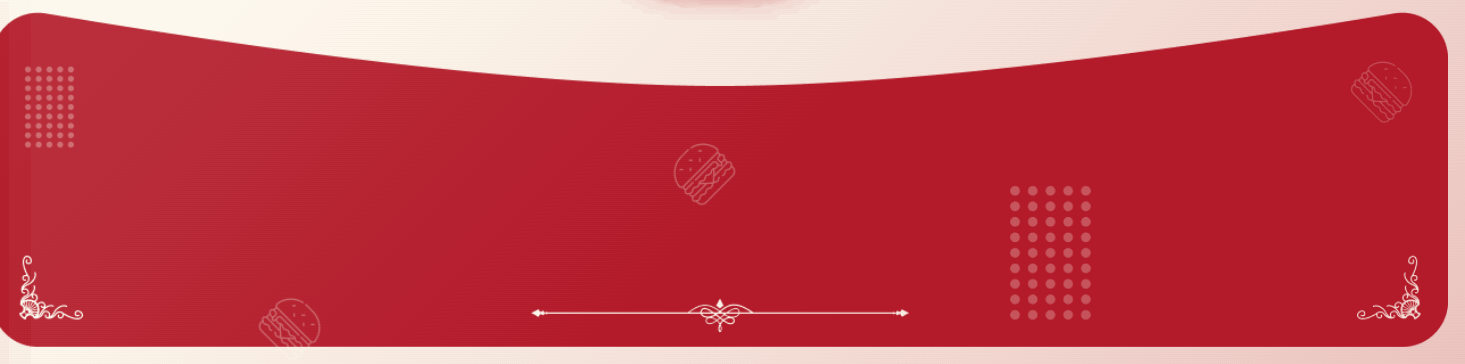
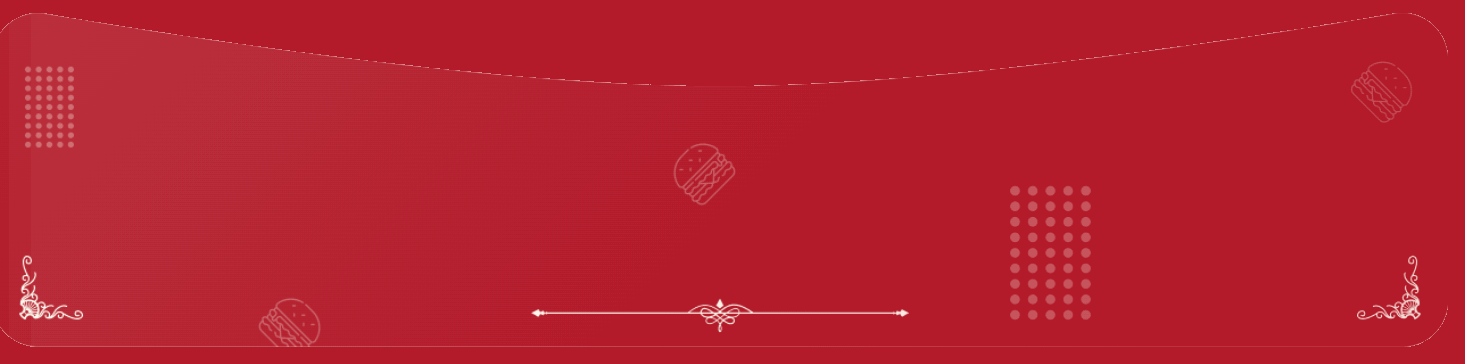
اصلاح استایل و چیدمان بخش محصولات و حذف پسزمینه کرم

Changed region(s): [[0.0, 0.0, 1.0, 1.0]]

diff --git a/src/styles/products.css b/src/styles/products.css
@@ -15,12 +15,22 @@
 
 .specials-band {
   position: relative;
-  margin: 10px -6px 0;
-  padding: 60px 22px 26px;
-  border-radius: 30px;
-  background-image: url('/assets/featured-bg.png');
-  background-repeat: no-repeat;
-  background-size: 100% 100%;
+  max-width: 90%;
+  margin: 14px auto 0;
+  padding: 30px 20px 22px;
+  border-radius: 28px;
+  overflow: hidden;
+  background: #b31b2a url('/assets/featured-bg.png') center / 100% 100% no-repeat;
+}
+
+.specials-band .product-track {
+  margin: 0;
+  padding: 4px 0 6px;
+}
+
+.specials-band .product-track__item {
+  flex: 0 0 calc((100% - 54px) / 4);
+  min-width: 0;
 }
 
 .featured__dots {
@@ -555,8 +565,13 @@
   }
 
   .specials-band {
-    margin: 8px 0 0;
-    padding: 44px 12px 20px;
+    max-width: 100%;
+    margin: 10px auto 0;
+    padding: 24px 12px 18px;
+  }
+
+  .specials-band .product-track__item {
+    flex-basis: calc((100% - 18px) / 2);
   }
 }
 
@@ -575,6 +590,10 @@
   .product-track__item {
     flex-basis: 78%;
     min-width: 0;
+  }
+
+  .specials-band .product-track__item {
+    flex-basis: 100%;
   }
 
   .product-card {
